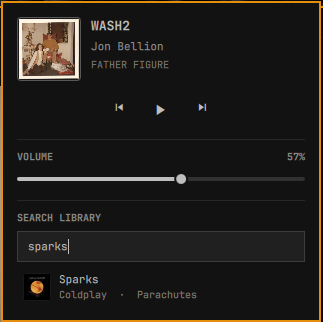
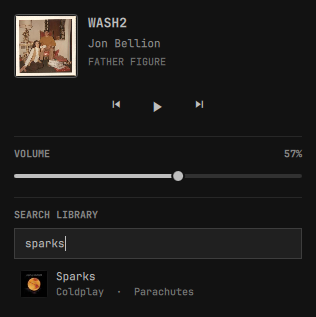
Add repo hero image, motivation section, fix popup screenshot border
popup.png had a leftover orange selection-border from the screenshot
capture tool; cropped it out. Added a "Why this exists" section and a
generated header.png banner for the repo page.

diff --git a/README.md b/README.md
@@ -1,11 +1,22 @@
 # Feishin for Omarchy
 
+![Feishin for Omarchy](header.png)
+
 A bar-widget plugin for [Omarchy](https://omarchy.org/) that shows what's currently
 playing in [Feishin](https://github.com/jeffvli/feishin) and lets you control it —
 play/pause, skip, volume, and a quick library search — without switching to the
 Feishin window.
 
 ![Feishin widget preview](preview.png)
+
+## Why this exists
+
+I self-host most of my own infrastructure, including my music library, and
+Feishin is my client of choice for playing it back. But alt-tabbing into a
+full player window just to skip a track or see what's playing felt like a lot
+of friction for something that small. This widget puts my self-hosted
+library's now-playing, transport, volume, and search a single click away in
+the bar — no window switching, no separate login, no config file.
 
 ## Features
 
